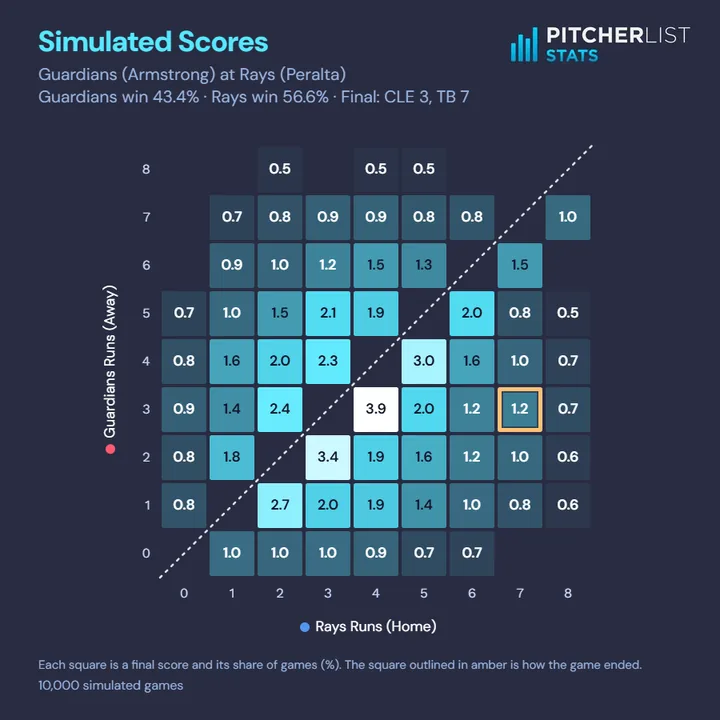
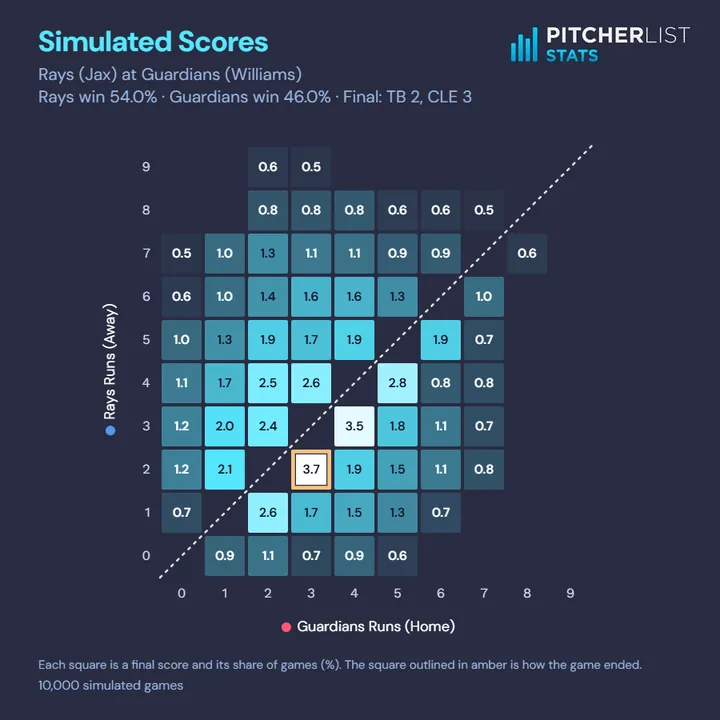
Homepage: the Game Sim tile from game 849818 (2026 ALCS Game 3)
At the user's direction. Captured from the live /game-sim/ with grab_app_pngs.py and
rebuilt with make_tiles.py, which bumped the tile to ?v=2.

diff --git a/index.html b/index.html
@@ -168,7 +168,7 @@
 								</article>
 									<article class="style4">
 									<span class="image">
-										<img src="images/tile-game-sim.webp?v=1" srcset="images/tile-game-sim-720.webp?v=1 720w, images/tile-game-sim.webp?v=1 900w" sizes="(max-width: 480px) 100vw, (max-width: 980px) 50vw, 380px" width="900" height="900" alt="Every simulated final score of the 2026 ALCS Game 6, Guardians at Rays, with the real 7-3 final outlined" />
+										<img src="images/tile-game-sim.webp?v=2" srcset="images/tile-game-sim-720.webp?v=2 720w, images/tile-game-sim.webp?v=2 900w" sizes="(max-width: 480px) 100vw, (max-width: 980px) 50vw, 380px" width="900" height="900" alt="Every simulated final score of the 2026 ALCS Game 3, Rays at Guardians, with the real 3-2 final outlined" />
 									</span>
 									<a href="/game-sim/">
 										<h2>Game Sim</h2>

diff --git a/tools/homepage/grab_app_pngs.py b/tools/homepage/grab_app_pngs.py
@@ -62,8 +62,8 @@ APPS = [
     # Jacob Misiorowski's 2026 four-seamer, Stuff+, the Velocity row
     ("model-drilldown", "https://blandalytics.com/model-drilldown/#2026-694819-FF&row=velo",
      "document.querySelector('#flow svg .panel-hit') && document.title.includes('Misiorowski')", "share_flow_download"),
-    # the 2026 ALCS Game 6, Guardians at Rays (the pennant clincher): the simulated scores, the final outlined
-    ("game-sim", "https://blandalytics.com/game-sim/#gp=849815",
+    # the 2026 ALCS Game 3, Rays at Guardians: the simulated scores, the final outlined
+    ("game-sim", "https://blandalytics.com/game-sim/#gp=849818",
      "/amber/.test(document.getElementById('sg_note').textContent) && !document.getElementById('sg_share').hidden", "sg_share_download"),
 ]
 
